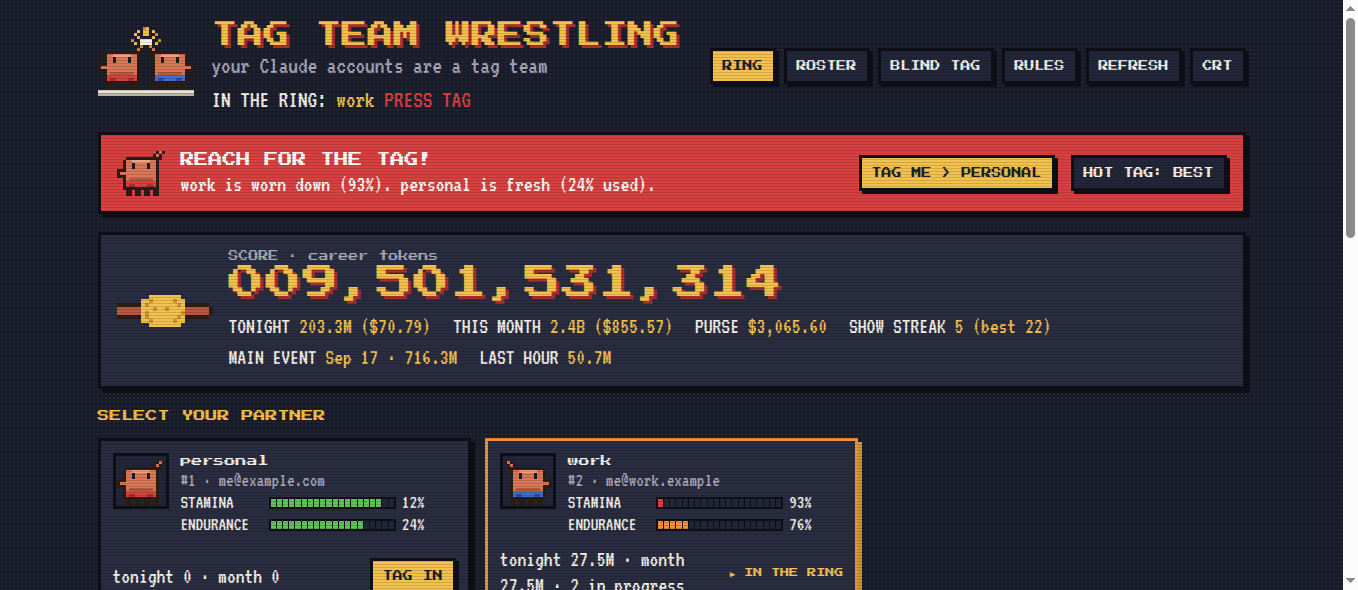
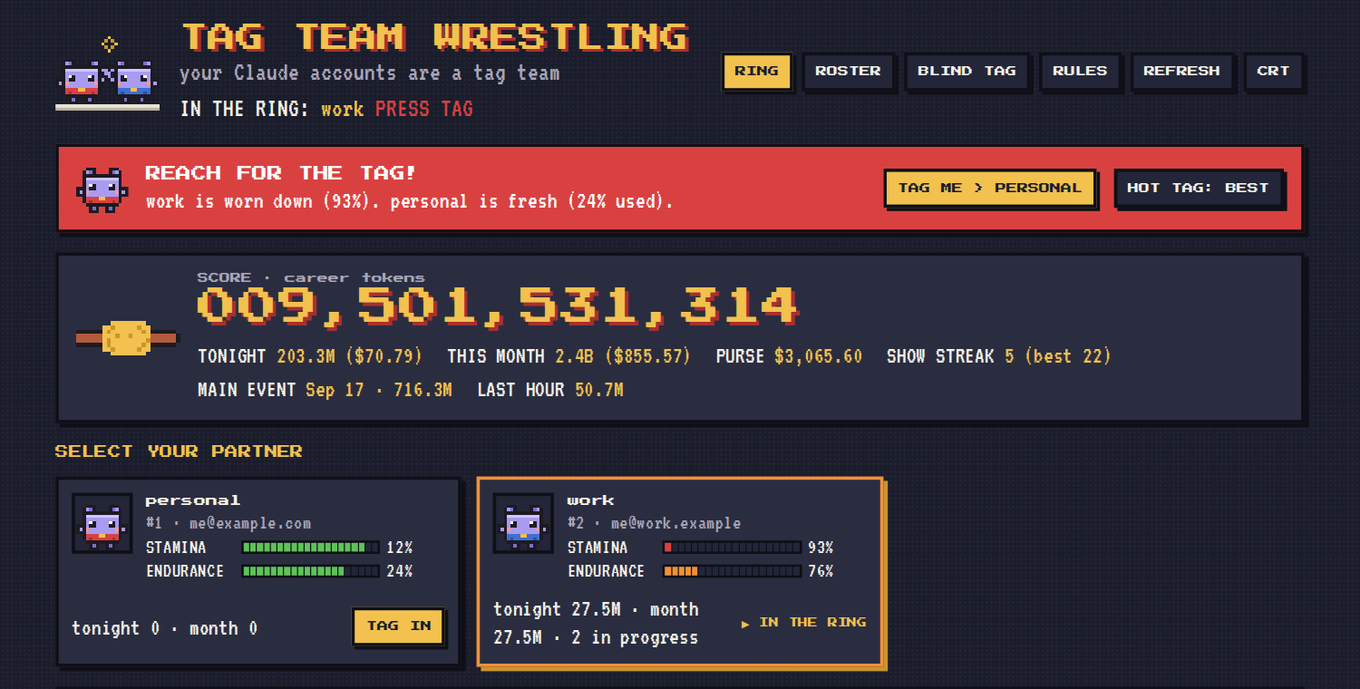
feat: original mascot, a lavender pixel critter tag team
Replaces the Claude-mascot fan art everywhere the mascot is drawn (ring
page, editor icon, terminal banner, plugin, download page): a lavender
body, round ears, round eyes, two legs and red / blue trunks. Adds
mascot/red and mascot/blue portrait frames so partner portraits no
longer slice the icon, and drops the fan-art notes.

Changed region(s): [[0.0309, 0.2136, 0.9588, 1.0], [0.0309, 0.0305, 0.9588, 0.1831], [0.9897, 0.0, 1.0, 1.0]]

diff --git a/docs/assets/mascot.js b/docs/assets/mascot.js
@@ -1,5 +1,5 @@
-// Mascot exported from Figma (R7exq8p1eMzkr0end2nxf1): one char per pixel, "." transparent; edit in Figma, not here.
-const MASCOT = {"palette":{"o":"#c9952e","c":"#f2c14e","h":"#f4f1e8","s":"#2b1d17","e":"#d97757","R":"#f0a07f","r":"#1b1d2b","b":"#b35a3d","B":"#d94141","w":"#3f6fd1","y":"#a82f2f","Y":"#2c4f9c","m":"#e8e3d3","M":"#b9b3a2","q":"#5a5f73"},"frames":{"mascot/icon":["................................","................................","................................","...............oc...............",".............c.cc.c.............","............c..cc..o............",".............c....c.............","...........o..hhhh..o...........","............c.hhhh.c............",".............sesses.............","............ses..ses............","...ssssssssssss..ssssssssssss...","..seeRRRRRRees....seeRRRRRRees..","..seereeeerees....seereeeerees..","..seereeeerees....seereeeerees..","ssseeeeeeeeees....seeeeeeeeeesss","seeeeeeeeeeees....seeeeeeeeeeees","ssseeeeeeeeees....seeeeeeeeeesss","..sebbbbbbbbes....sebbbbbbbbes..","..sBBBBBBBBBBs....swwwwwwwwwws..","..sByyBBBByyBs....swYYwwwwYYws..","..ssssssssssss....ssssssssssss..","...ss.ss.ss.ss....ss.ss.ss.ss...","...ss.ss.ss.ss....ss.ss.ss.ss...","mmmmmmmmmmmmmmmmmmmmmmmmmmmmmmmm","MMMMMMMMMMMMMMMMMMMMMMMMMMMMMMMM","................................","................................","................................","................................","................................","................................"],"mascot/slap-1":["................................","................................","................................","................................","................................","................................","................................","...........hh......hh...........","...........hh......hh...........","..........ses......ses..........",".........ses........ses.........","ssssssssssss........ssssssssssss","eeRRRRRRees..........seeRRRRRRee","eereeeerees..........seereeeeree","eereeeerees..........seereeeeree","eeeeeeeeees..........seeeeeeeeee","eeeeeeeeees..........seeeeeeeeee","eeeeeeeeees..........seeeeeeeeee","ebbbbbbbbes..........sebbbbbbbbe","BBBBBBBBBBs..........swwwwwwwwww","ByyBBBByyBs..........swYYwwwwYYw","sssssssssss..........sssssssssss","ss.ss.ss.ss..........ss.ss.ss.ss","ss.ss.ss.ss..........ss.ss.ss.ss","mmmmmmmmmmmmmmmmmmmmmmmmmmmmmmmm","MMMMMMMMMMMMMMMMMMMMMMMMMMMMMMMM","................................","................................","................................","................................","................................","................................"],"mascot/slap-2":["................................","................................","................................","................................","................................","................................","................................","............hh...hh.............","............hh...hh.............","...........ses...ses............","..........ses.....ses...........",".ssssssssssss.....ssssssssssss..","seeRRRRRRees.......seeRRRRRRees.","seereeeerees.......seereeeerees.","seereeeerees.......seereeeerees.","seeeeeeeeees.......seeeeeeeeeess","eeeeeeeeeees.......seeeeeeeeeeee","seeeeeeeeees.......seeeeeeeeeess","sebbbbbbbbes.......sebbbbbbbbes.","sBBBBBBBBBBs.......swwwwwwwwwws.","sByyBBBByyBs.......swYYwwwwYYws.","ssssssssssss.......ssssssssssss.",".ss.ss.ss.ss.......ss.ss.ss.ss..",".ss.ss.ss.ss.......ss.ss.ss.ss..","mmmmmmmmmmmmmmmmmmmmmmmmmmmmmmmm","MMMMMMMMMMMMMMMMMMMMMMMMMMMMMMMM","................................","................................","................................","................................","................................","................................"],"mascot/slap-3":["................................","................................","................................","................................","................................","...............cc...............",".............c....c.............","..............hhhh..............","............c.hhhh.c............",".............sesses.............","............ses..ses............","...ssssssssssss..ssssssssssss...","..seeRRRRRRees....seeRRRRRRees..","..seereeeerees....seereeeerees..","..seereeeerees....seereeeerees..","ssseeeeeeeeees....seeeeeeeeeesss","seeeeeeeeeeees....seeeeeeeeeeees","ssseeeeeeeeees....seeeeeeeeeesss","..sebbbbbbbbes....sebbbbbbbbes..","..sBBBBBBBBBBs....swwwwwwwwwws..","..sByyBBBByyBs....swYYwwwwYYws..","..ssssssssssss....ssssssssssss..","...ss.ss.ss.ss....ss.ss.ss.ss...","...ss.ss.ss.ss....ss.ss.ss.ss...","mmmmmmmmmmmmmmmmmmmmmmmmmmmmmmmm","MMMMMMMMMMMMMMMMMMMMMMMMMMMMMMMM","................................","................................","................................","................................","................................","................................"],"mascot/slap-4":["................................","................................","................................","...............oc...............",".............c.cc.c.............","............c..cc..o............",".............c....c.............","...........o..hhhh..o...........","............c.hhhh.c............",".............sesses.............","............ses..ses............","...ssssssssssss..ssssssssssss...","..seeRRRRRRees....seeRRRRRRees..","..seereeeerees....seereeeerees..","..seereeeerees....seereeeerees..","ssseeeeeeeeees....seeeeeeeeeesss","seeeeeeeeeeees....seeeeeeeeeeees","ssseeeeeeeeees....seeeeeeeeeesss","..sebbbbbbbbes....sebbbbbbbbes..","..sBBBBBBBBBBs....swwwwwwwwwws..","..sByyBBBByyBs....swYYwwwwYYws..","..ssssssssssss....ssssssssssss..","...ss.ss.ss.ss....ss.ss.ss.ss...","...ss.ss.ss.ss....ss.ss.ss.ss...","mmmmmmmmmmmmmmmmmmmmmmmmmmmmmmmm","MMMMMMMMMMMMMMMMMMMMMMMMMMMMMMMM","................................","................................","................................","................................","................................","................................"],"ring":["................................................................","................................................................",".qq..........................................................qq.",".qq..........................................................qq.",".qq..........................................................qq.",".qqBBBBBBBBBBBBBBBBBBBBBBBBBBBBBBBBBBBBBBBBBBBBBBBBBBBBBBBBBBqq.",".qq..........................................................qq.",".qq..........................................................qq.",".qq..........................................................qq.",".qq..........................................................qq.",".qqhhhhhhhhhhhhhhhhhhhhhhhhhhhhhhhhhhhhhhhhhhhhhhhhhhhhhhhhhhqq.",".qq..........................................................qq.",".qq..........................................................qq.",".qq..........................................................qq.",".qq..........................................................qq.",".qqwwwwwwwwwwwwwwwwwwwwwwwwwwwwwwwwwwwwwwwwwwwwwwwwwwwwwwwwwwqq.",".qq..........................................................qq.",".qq..........................................................qq.",".qq..........................................................qq.",".qq..........................................................qq.","mmmmmmmmmmmmmmmmmmmmmmmmmmmmmmmmmmmmmmmmmmmmmmmmmmmmmmmmmmmmmmmm","mmmmmmmmmmmmmmmmmmmmmmmmmmmmmmmmmmmmmmmmmmmmmmmmmmmmmmmmmmmmmmmm","MMMMMMMMMMMMMMMMMMMMMMMMMMMMMMMMMMMMMMMMMMMMMMMMMMMMMMMMMMMMMMMM","MMMMMMMMMMMMMMMMMMMMMMMMMMMMMMMMMMMMMMMMMMMMMMMMMMMMMMMMMMMMMMMM"],"belt":["........cccccccc........","......ccocccccocc.......","sssssscocccccccocssssss.","bbbbbbcccoccoccccbbbbbbs","bbbbbbcoccccccccobbbbbbs","sssssscocccccccocssssss.","......ccocccccocc.......","........cccccccc........"]}};
+// Mascot exported from Figma (R7exq8p1eMzkr0end2nxf1, page "Mascot v2"): one char per pixel, "." transparent; edit in Figma, not here.
+const MASCOT = {"palette":{"s":"#1e1a22","e":"#a99bf0","E":"#7d6fcf","R":"#cfc6ff","r":"#1e1a22","h":"#ffffff","p":"#f29a9a","B":"#d94141","y":"#a82f2f","w":"#3f6fd1","Y":"#2c4f9c","o":"#c9952e","c":"#f2c14e","m":"#e8e3d3","M":"#b9b3a2","q":"#5a5f73","b":"#b35a3d"},"frames":{"mascot/icon":["................................","................................","................................","................................","................................","................c...............","...............o.o..............","..............c...c.............","...............o.o..............","................c...............","................................","................................","...sss....sss......sss....sss...","..seEs....sEes....seEs....sEes..","..ssssssssssssssssssssssssssss..","..sRRRRRRRRRRseesesRRRRRRRRRRs..","..seeeeeeeeeesseesseeeeeeeeees..","..sehreeeehres.se.serheeeerhes..","ssserreeeerresesseserreeeerresss","sespeeeeeeeepss..sspeeeeeeeepses","ssseeeeeeeeees....seeeeeeeeeesss","..sBBBBccBBBBs....swwwwccwwwws..","..sByBBBBBByBs....swYwwwwwwYws..","...ssssssssss......ssssssssss...","....sEs..sEs........sEs..sEs....","....sss..sss........sss..sss....","mmmmmmmmmmmmmmmmmmmmmmmmmmmmmmmm","MMMMMMMMMMMMMMMMMMMMMMMMMMMMMMMM","................................","................................","................................","................................"],"mascot/slap-1":["................................","................................","................................","................................","................................","................................","................................","................................","................................","................................","................................","................................","..sss....sss........sss....sss..",".seEs....sEes......seEs....sEes.",".ssssssssssss......ssssssssssss.",".sRRRRRRRRRRs......sRRRRRRRRRRs.",".seeeeeeeeees......seeeeeeeeees.",".sehreeeehres......serheeeerhes.","sserreeeerresss..ssserreeeerress","espeeeeeeeepses..sespeeeeeeeepse","sseeeeeeeeeesss..ssseeeeeeeeeess",".sBBBBccBBBBs......swwwwccwwwws.",".sByBBBBBByBs......swYwwwwwwYws.","..ssssssssss........ssssssssss..","...sEs..sEs..........sEs..sEs...","...sss..sss..........sss..sss...","mmmmmmmmmmmmmmmmmmmmmmmmmmmmmmmm","MMMMMMMMMMMMMMMMMMMMMMMMMMMMMMMM","................................","................................","................................","................................"],"mascot/slap-2":["................................","................................","................................","................................","................................","................................","................................","................................","................................","................................","................................","................................","..sss....sss.......sss....sss...",".seEs....sEes.....seEs....sEes..",".ssssssssssss.sss.ssssssssssss..",".sRRRRRRRRRRsseesssRRRRRRRRRRs..",".seeeeeeeeees.ses.seeeeeeeeees..",".sehreeeehres.ese.serheeeerhes..","sserreeeerreses.seserreeeerresss","espeeeeeeeepss...sspeeeeeeeepses","sseeeeeeeeees.....seeeeeeeeeesss",".sBBBBccBBBBs.....swwwwccwwwws..",".sByBBBBBByBs.....swYwwwwwwYws..","..ssssssssss.......ssssssssss...","...sEs..sEs.........sEs..sEs....","...sss..sss.........sss..sss....","mmmmmmmmmmmmmmmmmmmmmmmmmmmmmmmm","MMMMMMMMMMMMMMMMMMMMMMMMMMMMMMMM","................................","................................","................................","................................"],"mascot/slap-3":["................................","................................","................................","................................","................................","................................","................................","................................","................................","................................","................................","................................","...sss....sss......sss....sss...","..seEs....sEes....seEs....sEes..","..ssssssssssssssssssssssssssss..","..sRRRRRRRRRRseesesRRRRRRRRRRs..","..seeeeeeeeeesseesseeeeeeeeees..","..sehreeeehres.se.serheeeerhes..","ssserreeeerresesseserreeeerresss","sespeeeeeeeepss..sspeeeeeeeepses","ssseeeeeeeeees....seeeeeeeeeesss","..sBBBBccBBBBs....swwwwccwwwws..","..sByBBBBBByBs....swYwwwwwwYws..","...ssssssssss......ssssssssss...","....sEs..sEs........sEs..sEs....","....sss..sss........sss..sss....","mmmmmmmmmmmmmmmmmmmmmmmmmmmmmmmm","MMMMMMMMMMMMMMMMMMMMMMMMMMMMMMMM","................................","................................","................................","................................"],"mascot/slap-4":["................................","................................","................................","................................","................................","................c...............","...............o.o..............","..............c...c.............","...............o.o..............","................c...............","................................","................................","...sss....sss......sss....sss...","..seEs....sEes....seEs....sEes..","..ssssssssssssssssssssssssssss..","..sRRRRRRRRRRseesesRRRRRRRRRRs..","..seeeeeeeeeesseesseeeeeeeeees..","..sehreeeehres.se.serheeeerhes..","ssserreeeerresesseserreeeerresss","sespeeeeeeeepss..sspeeeeeeeepses","ssseeeeeeeeees....seeeeeeeeeesss","..sBBBBccBBBBs....swwwwccwwwws..","..sByBBBBBByBs....swYwwwwwwYws..","...ssssssssss......ssssssssss...","....sEs..sEs........sEs..sEs....","....sss..sss........sss..sss....","mmmmmmmmmmmmmmmmmmmmmmmmmmmmmmmm","MMMMMMMMMMMMMMMMMMMMMMMMMMMMMMMM","................................","................................","................................","................................"],"mascot/red":["................","...sss....sss...","..seEs....sEes..","..ssssssssssss..","..sRRRRRRRRRRs..","..seeeeeeeeees..","..sehreeeehres..","ssserreeeerresss","sespeeeeeeeepses","ssseeeeeeeeeesss","..sBBBBccBBBBs..","..sByBBBBBByBs..","...ssssssssss...","....sEs..sEs....","....sss..sss...."],"mascot/blue":["................","...sss....sss...","..seEs....sEes..","..ssssssssssss..","..sRRRRRRRRRRs..","..seeeeeeeeees..","..sehreeeehres..","ssserreeeerresss","sespeeeeeeeepses","ssseeeeeeeeeesss","..swwwwccwwwws..","..swYwwwwwwYws..","...ssssssssss...","....sEs..sEs....","....sss..sss...."],"ring":["................................................................","................................................................",".qq..........................................................qq.",".qq..........................................................qq.",".qq..........................................................qq.",".qqBBBBBBBBBBBBBBBBBBBBBBBBBBBBBBBBBBBBBBBBBBBBBBBBBBBBBBBBBBqq.",".qq..........................................................qq.",".qq..........................................................qq.",".qq..........................................................qq.",".qq..........................................................qq.",".qqhhhhhhhhhhhhhhhhhhhhhhhhhhhhhhhhhhhhhhhhhhhhhhhhhhhhhhhhhhqq.",".qq..........................................................qq.",".qq..........................................................qq.",".qq..........................................................qq.",".qq..........................................................qq.",".qqwwwwwwwwwwwwwwwwwwwwwwwwwwwwwwwwwwwwwwwwwwwwwwwwwwwwwwwwwwqq.",".qq..........................................................qq.",".qq..........................................................qq.",".qq..........................................................qq.",".qq..........................................................qq.","mmmmmmmmmmmmmmmmmmmmmmmmmmmmmmmmmmmmmmmmmmmmmmmmmmmmmmmmmmmmmmmm","mmmmmmmmmmmmmmmmmmmmmmmmmmmmmmmmmmmmmmmmmmmmmmmmmmmmmmmmmmmmmmmm","MMMMMMMMMMMMMMMMMMMMMMMMMMMMMMMMMMMMMMMMMMMMMMMMMMMMMMMMMMMMMMMM","MMMMMMMMMMMMMMMMMMMMMMMMMMMMMMMMMMMMMMMMMMMMMMMMMMMMMMMMMMMMMMMM"],"belt":["........cccccccc........","......ccocccccocc.......","sssssscocccccccocssssss.","bbbbbbcccoccoccccbbbbbbs","bbbbbbcoccccccccobbbbbbs","sssssscocccccccocssssss.","......ccocccccocc.......","........cccccccc........"]}};
 
 /** An SVG of pixel rows ("." = transparent), `scale` screen pixels per art pixel; integer scaling stays crisp. */
 const svgText = s => String(s).replace(/[&<>"']/g, c => ({ "&": "&amp;", "<": "&lt;", ">": "&gt;", '"': "&quot;", "'": "&#39;" }[c]));
@@ -26,8 +26,7 @@ function mascotSVG(name, scale = 4, title = "") { return rowsSVG(MASCOT.frames[n
 
 /** One wrestler cut from the icon: "red" (left) or "blue" (right), for portraits. */
 function partnerSVG(side, scale = 3, title = "") {
-  const rows = MASCOT.frames["mascot/icon"].slice(9, 24).map(r => side === "red" ? r.slice(0, 16) : r.slice(16));
-  return rowsSVG(rows, scale, title);
+  return rowsSVG(MASCOT.frames[side === "red" ? "mascot/red" : "mascot/blue"], scale, title);
 }
 
 if (typeof module !== "undefined") module.exports = { MASCOT, mascotSVG, partnerSVG, rowsSVG };

diff --git a/tagteam/web/mascot.js b/tagteam/web/mascot.js
@@ -1,5 +1,5 @@
-// Mascot exported from Figma (R7exq8p1eMzkr0end2nxf1): one char per pixel, "." transparent; edit in Figma, not here.
-const MASCOT = {"palette":{"o":"#c9952e","c":"#f2c14e","h":"#f4f1e8","s":"#2b1d17","e":"#d97757","R":"#f0a07f","r":"#1b1d2b","b":"#b35a3d","B":"#d94141","w":"#3f6fd1","y":"#a82f2f","Y":"#2c4f9c","m":"#e8e3d3","M":"#b9b3a2","q":"#5a5f73"},"frames":{"mascot/icon":["................................","................................","................................","...............oc...............",".............c.cc.c.............","............c..cc..o............",".............c....c.............","...........o..hhhh..o...........","............c.hhhh.c............",".............sesses.............","............ses..ses............","...ssssssssssss..ssssssssssss...","..seeRRRRRRees....seeRRRRRRees..","..seereeeerees....seereeeerees..","..seereeeerees....seereeeerees..","ssseeeeeeeeees....seeeeeeeeeesss","seeeeeeeeeeees....seeeeeeeeeeees","ssseeeeeeeeees....seeeeeeeeeesss","..sebbbbbbbbes....sebbbbbbbbes..","..sBBBBBBBBBBs....swwwwwwwwwws..","..sByyBBBByyBs....swYYwwwwYYws..","..ssssssssssss....ssssssssssss..","...ss.ss.ss.ss....ss.ss.ss.ss...","...ss.ss.ss.ss....ss.ss.ss.ss...","mmmmmmmmmmmmmmmmmmmmmmmmmmmmmmmm","MMMMMMMMMMMMMMMMMMMMMMMMMMMMMMMM","................................","................................","................................","................................","................................","................................"],"mascot/slap-1":["................................","................................","................................","................................","................................","................................","................................","...........hh......hh...........","...........hh......hh...........","..........ses......ses..........",".........ses........ses.........","ssssssssssss........ssssssssssss","eeRRRRRRees..........seeRRRRRRee","eereeeerees..........seereeeeree","eereeeerees..........seereeeeree","eeeeeeeeees..........seeeeeeeeee","eeeeeeeeees..........seeeeeeeeee","eeeeeeeeees..........seeeeeeeeee","ebbbbbbbbes..........sebbbbbbbbe","BBBBBBBBBBs..........swwwwwwwwww","ByyBBBByyBs..........swYYwwwwYYw","sssssssssss..........sssssssssss","ss.ss.ss.ss..........ss.ss.ss.ss","ss.ss.ss.ss..........ss.ss.ss.ss","mmmmmmmmmmmmmmmmmmmmmmmmmmmmmmmm","MMMMMMMMMMMMMMMMMMMMMMMMMMMMMMMM","................................","................................","................................","................................","................................","................................"],"mascot/slap-2":["................................","................................","................................","................................","................................","................................","................................","............hh...hh.............","............hh...hh.............","...........ses...ses............","..........ses.....ses...........",".ssssssssssss.....ssssssssssss..","seeRRRRRRees.......seeRRRRRRees.","seereeeerees.......seereeeerees.","seereeeerees.......seereeeerees.","seeeeeeeeees.......seeeeeeeeeess","eeeeeeeeeees.......seeeeeeeeeeee","seeeeeeeeees.......seeeeeeeeeess","sebbbbbbbbes.......sebbbbbbbbes.","sBBBBBBBBBBs.......swwwwwwwwwws.","sByyBBBByyBs.......swYYwwwwYYws.","ssssssssssss.......ssssssssssss.",".ss.ss.ss.ss.......ss.ss.ss.ss..",".ss.ss.ss.ss.......ss.ss.ss.ss..","mmmmmmmmmmmmmmmmmmmmmmmmmmmmmmmm","MMMMMMMMMMMMMMMMMMMMMMMMMMMMMMMM","................................","................................","................................","................................","................................","................................"],"mascot/slap-3":["................................","................................","................................","................................","................................","...............cc...............",".............c....c.............","..............hhhh..............","............c.hhhh.c............",".............sesses.............","............ses..ses............","...ssssssssssss..ssssssssssss...","..seeRRRRRRees....seeRRRRRRees..","..seereeeerees....seereeeerees..","..seereeeerees....seereeeerees..","ssseeeeeeeeees....seeeeeeeeeesss","seeeeeeeeeeees....seeeeeeeeeeees","ssseeeeeeeeees....seeeeeeeeeesss","..sebbbbbbbbes....sebbbbbbbbes..","..sBBBBBBBBBBs....swwwwwwwwwws..","..sByyBBBByyBs....swYYwwwwYYws..","..ssssssssssss....ssssssssssss..","...ss.ss.ss.ss....ss.ss.ss.ss...","...ss.ss.ss.ss....ss.ss.ss.ss...","mmmmmmmmmmmmmmmmmmmmmmmmmmmmmmmm","MMMMMMMMMMMMMMMMMMMMMMMMMMMMMMMM","................................","................................","................................","................................","................................","................................"],"mascot/slap-4":["................................","................................","................................","...............oc...............",".............c.cc.c.............","............c..cc..o............",".............c....c.............","...........o..hhhh..o...........","............c.hhhh.c............",".............sesses.............","............ses..ses............","...ssssssssssss..ssssssssssss...","..seeRRRRRRees....seeRRRRRRees..","..seereeeerees....seereeeerees..","..seereeeerees....seereeeerees..","ssseeeeeeeeees....seeeeeeeeeesss","seeeeeeeeeeees....seeeeeeeeeeees","ssseeeeeeeeees....seeeeeeeeeesss","..sebbbbbbbbes....sebbbbbbbbes..","..sBBBBBBBBBBs....swwwwwwwwwws..","..sByyBBBByyBs....swYYwwwwYYws..","..ssssssssssss....ssssssssssss..","...ss.ss.ss.ss....ss.ss.ss.ss...","...ss.ss.ss.ss....ss.ss.ss.ss...","mmmmmmmmmmmmmmmmmmmmmmmmmmmmmmmm","MMMMMMMMMMMMMMMMMMMMMMMMMMMMMMMM","................................","................................","................................","................................","................................","................................"],"ring":["................................................................","................................................................",".qq..........................................................qq.",".qq..........................................................qq.",".qq..........................................................qq.",".qqBBBBBBBBBBBBBBBBBBBBBBBBBBBBBBBBBBBBBBBBBBBBBBBBBBBBBBBBBBqq.",".qq..........................................................qq.",".qq..........................................................qq.",".qq..........................................................qq.",".qq..........................................................qq.",".qqhhhhhhhhhhhhhhhhhhhhhhhhhhhhhhhhhhhhhhhhhhhhhhhhhhhhhhhhhhqq.",".qq..........................................................qq.",".qq..........................................................qq.",".qq..........................................................qq.",".qq..........................................................qq.",".qqwwwwwwwwwwwwwwwwwwwwwwwwwwwwwwwwwwwwwwwwwwwwwwwwwwwwwwwwwwqq.",".qq..........................................................qq.",".qq..........................................................qq.",".qq..........................................................qq.",".qq..........................................................qq.","mmmmmmmmmmmmmmmmmmmmmmmmmmmmmmmmmmmmmmmmmmmmmmmmmmmmmmmmmmmmmmmm","mmmmmmmmmmmmmmmmmmmmmmmmmmmmmmmmmmmmmmmmmmmmmmmmmmmmmmmmmmmmmmmm","MMMMMMMMMMMMMMMMMMMMMMMMMMMMMMMMMMMMMMMMMMMMMMMMMMMMMMMMMMMMMMMM","MMMMMMMMMMMMMMMMMMMMMMMMMMMMMMMMMMMMMMMMMMMMMMMMMMMMMMMMMMMMMMMM"],"belt":["........cccccccc........","......ccocccccocc.......","sssssscocccccccocssssss.","bbbbbbcccoccoccccbbbbbbs","bbbbbbcoccccccccobbbbbbs","sssssscocccccccocssssss.","......ccocccccocc.......","........cccccccc........"]}};
+// Mascot exported from Figma (R7exq8p1eMzkr0end2nxf1, page "Mascot v2"): one char per pixel, "." transparent; edit in Figma, not here.
+const MASCOT = {"palette":{"s":"#1e1a22","e":"#a99bf0","E":"#7d6fcf","R":"#cfc6ff","r":"#1e1a22","h":"#ffffff","p":"#f29a9a","B":"#d94141","y":"#a82f2f","w":"#3f6fd1","Y":"#2c4f9c","o":"#c9952e","c":"#f2c14e","m":"#e8e3d3","M":"#b9b3a2","q":"#5a5f73","b":"#b35a3d"},"frames":{"mascot/icon":["................................","................................","................................","................................","................................","................c...............","...............o.o..............","..............c...c.............","...............o.o..............","................c...............","................................","................................","...sss....sss......sss....sss...","..seEs....sEes....seEs....sEes..","..ssssssssssssssssssssssssssss..","..sRRRRRRRRRRseesesRRRRRRRRRRs..","..seeeeeeeeeesseesseeeeeeeeees..","..sehreeeehres.se.serheeeerhes..","ssserreeeerresesseserreeeerresss","sespeeeeeeeepss..sspeeeeeeeepses","ssseeeeeeeeees....seeeeeeeeeesss","..sBBBBccBBBBs....swwwwccwwwws..","..sByBBBBBByBs....swYwwwwwwYws..","...ssssssssss......ssssssssss...","....sEs..sEs........sEs..sEs....","....sss..sss........sss..sss....","mmmmmmmmmmmmmmmmmmmmmmmmmmmmmmmm","MMMMMMMMMMMMMMMMMMMMMMMMMMMMMMMM","................................","................................","................................","................................"],"mascot/slap-1":["................................","................................","................................","................................","................................","................................","................................","................................","................................","................................","................................","................................","..sss....sss........sss....sss..",".seEs....sEes......seEs....sEes.",".ssssssssssss......ssssssssssss.",".sRRRRRRRRRRs......sRRRRRRRRRRs.",".seeeeeeeeees......seeeeeeeeees.",".sehreeeehres......serheeeerhes.","sserreeeerresss..ssserreeeerress","espeeeeeeeepses..sespeeeeeeeepse","sseeeeeeeeeesss..ssseeeeeeeeeess",".sBBBBccBBBBs......swwwwccwwwws.",".sByBBBBBByBs......swYwwwwwwYws.","..ssssssssss........ssssssssss..","...sEs..sEs..........sEs..sEs...","...sss..sss..........sss..sss...","mmmmmmmmmmmmmmmmmmmmmmmmmmmmmmmm","MMMMMMMMMMMMMMMMMMMMMMMMMMMMMMMM","................................","................................","................................","................................"],"mascot/slap-2":["................................","................................","................................","................................","................................","................................","................................","................................","................................","................................","................................","................................","..sss....sss.......sss....sss...",".seEs....sEes.....seEs....sEes..",".ssssssssssss.sss.ssssssssssss..",".sRRRRRRRRRRsseesssRRRRRRRRRRs..",".seeeeeeeeees.ses.seeeeeeeeees..",".sehreeeehres.ese.serheeeerhes..","sserreeeerreses.seserreeeerresss","espeeeeeeeepss...sspeeeeeeeepses","sseeeeeeeeees.....seeeeeeeeeesss",".sBBBBccBBBBs.....swwwwccwwwws..",".sByBBBBBByBs.....swYwwwwwwYws..","..ssssssssss.......ssssssssss...","...sEs..sEs.........sEs..sEs....","...sss..sss.........sss..sss....","mmmmmmmmmmmmmmmmmmmmmmmmmmmmmmmm","MMMMMMMMMMMMMMMMMMMMMMMMMMMMMMMM","................................","................................","................................","................................"],"mascot/slap-3":["................................","................................","................................","................................","................................","................................","................................","................................","................................","................................","................................","................................","...sss....sss......sss....sss...","..seEs....sEes....seEs....sEes..","..ssssssssssssssssssssssssssss..","..sRRRRRRRRRRseesesRRRRRRRRRRs..","..seeeeeeeeeesseesseeeeeeeeees..","..sehreeeehres.se.serheeeerhes..","ssserreeeerresesseserreeeerresss","sespeeeeeeeepss..sspeeeeeeeepses","ssseeeeeeeeees....seeeeeeeeeesss","..sBBBBccBBBBs....swwwwccwwwws..","..sByBBBBBByBs....swYwwwwwwYws..","...ssssssssss......ssssssssss...","....sEs..sEs........sEs..sEs....","....sss..sss........sss..sss....","mmmmmmmmmmmmmmmmmmmmmmmmmmmmmmmm","MMMMMMMMMMMMMMMMMMMMMMMMMMMMMMMM","................................","................................","................................","................................"],"mascot/slap-4":["................................","................................","................................","................................","................................","................c...............","...............o.o..............","..............c...c.............","...............o.o..............","................c...............","................................","................................","...sss....sss......sss....sss...","..seEs....sEes....seEs....sEes..","..ssssssssssssssssssssssssssss..","..sRRRRRRRRRRseesesRRRRRRRRRRs..","..seeeeeeeeeesseesseeeeeeeeees..","..sehreeeehres.se.serheeeerhes..","ssserreeeerresesseserreeeerresss","sespeeeeeeeepss..sspeeeeeeeepses","ssseeeeeeeeees....seeeeeeeeeesss","..sBBBBccBBBBs....swwwwccwwwws..","..sByBBBBBByBs....swYwwwwwwYws..","...ssssssssss......ssssssssss...","....sEs..sEs........sEs..sEs....","....sss..sss........sss..sss....","mmmmmmmmmmmmmmmmmmmmmmmmmmmmmmmm","MMMMMMMMMMMMMMMMMMMMMMMMMMMMMMMM","................................","................................","................................","................................"],"mascot/red":["................","...sss....sss...","..seEs....sEes..","..ssssssssssss..","..sRRRRRRRRRRs..","..seeeeeeeeees..","..sehreeeehres..","ssserreeeerresss","sespeeeeeeeepses","ssseeeeeeeeeesss","..sBBBBccBBBBs..","..sByBBBBBByBs..","...ssssssssss...","....sEs..sEs....","....sss..sss...."],"mascot/blue":["................","...sss....sss...","..seEs....sEes..","..ssssssssssss..","..sRRRRRRRRRRs..","..seeeeeeeeees..","..sehreeeehres..","ssserreeeerresss","sespeeeeeeeepses","ssseeeeeeeeeesss","..swwwwccwwwws..","..swYwwwwwwYws..","...ssssssssss...","....sEs..sEs....","....sss..sss...."],"ring":["................................................................","................................................................",".qq..........................................................qq.",".qq..........................................................qq.",".qq..........................................................qq.",".qqBBBBBBBBBBBBBBBBBBBBBBBBBBBBBBBBBBBBBBBBBBBBBBBBBBBBBBBBBBqq.",".qq..........................................................qq.",".qq..........................................................qq.",".qq..........................................................qq.",".qq..........................................................qq.",".qqhhhhhhhhhhhhhhhhhhhhhhhhhhhhhhhhhhhhhhhhhhhhhhhhhhhhhhhhhhqq.",".qq..........................................................qq.",".qq..........................................................qq.",".qq..........................................................qq.",".qq..........................................................qq.",".qqwwwwwwwwwwwwwwwwwwwwwwwwwwwwwwwwwwwwwwwwwwwwwwwwwwwwwwwwwwqq.",".qq..........................................................qq.",".qq..........................................................qq.",".qq..........................................................qq.",".qq..........................................................qq.","mmmmmmmmmmmmmmmmmmmmmmmmmmmmmmmmmmmmmmmmmmmmmmmmmmmmmmmmmmmmmmmm","mmmmmmmmmmmmmmmmmmmmmmmmmmmmmmmmmmmmmmmmmmmmmmmmmmmmmmmmmmmmmmmm","MMMMMMMMMMMMMMMMMMMMMMMMMMMMMMMMMMMMMMMMMMMMMMMMMMMMMMMMMMMMMMMM","MMMMMMMMMMMMMMMMMMMMMMMMMMMMMMMMMMMMMMMMMMMMMMMMMMMMMMMMMMMMMMMM"],"belt":["........cccccccc........","......ccocccccocc.......","sssssscocccccccocssssss.","bbbbbbcccoccoccccbbbbbbs","bbbbbbcoccccccccobbbbbbs","sssssscocccccccocssssss.","......ccocccccocc.......","........cccccccc........"]}};
 
 /** An SVG of pixel rows ("." = transparent), `scale` screen pixels per art pixel; integer scaling stays crisp. */
 const svgText = s => String(s).replace(/[&<>"']/g, c => ({ "&": "&amp;", "<": "&lt;", ">": "&gt;", '"': "&quot;", "'": "&#39;" }[c]));
@@ -26,8 +26,7 @@ function mascotSVG(name, scale = 4, title = "") { return rowsSVG(MASCOT.frames[n
 
 /** One wrestler cut from the icon: "red" (left) or "blue" (right), for portraits. */
 function partnerSVG(side, scale = 3, title = "") {
-  const rows = MASCOT.frames["mascot/icon"].slice(9, 24).map(r => side === "red" ? r.slice(0, 16) : r.slice(16));
-  return rowsSVG(rows, scale, title);
+  return rowsSVG(MASCOT.frames[side === "red" ? "mascot/red" : "mascot/blue"], scale, title);
 }
 
 if (typeof module !== "undefined") module.exports = { MASCOT, mascotSVG, partnerSVG, rowsSVG };

diff --git a/tagteam/web/index.html b/tagteam/web/index.html
@@ -240,7 +240,7 @@ footer { margin-top: 26px; font-size: 19px; color: var(--muted); }
     <div class="box"><h2>HOW THE MATCH WORKS</h2><pre class="rules" id="rules"></pre></div>
   </section>
 
-  <footer>Tag Team Wrestling: your Claude accounts side by side; tag the right one in with one click. Built on claude-swap. Not affiliated with any wrestling company or with Anthropic; the mascot is fan art.</footer>
+  <footer>Tag Team Wrestling: your Claude accounts side by side; tag the right one in with one click. Built on claude-swap. Not affiliated with any wrestling company or with Anthropic.</footer>
 </main>
 <div id="pop" aria-hidden="true"><div class="burst"><div id="popArt"></div><div class="word">TAG!</div></div></div>
 <div id="toast" role="status" aria-live="polite"></div>

diff --git a/docs/index.html b/docs/index.html
@@ -107,7 +107,7 @@ footer { color: var(--muted); font-size: 20px; margin-top: 30px; }
     </ol>
   </section>
 
-  <footer>Built on <a href="https://github.com/realiti4/claude-swap">claude-swap</a>. Your match history never leaves your machine. Tag Team uses generic wrestling words and isn't affiliated with any wrestling company or with Anthropic; the mascot is fan art.</footer>
+  <footer>Built on <a href="https://github.com/realiti4/claude-swap">claude-swap</a>. Your match history never leaves your machine. Tag Team uses generic wrestling words and isn't affiliated with any wrestling company or with Anthropic.</footer>
 </main>
 <script src="assets/mascot.js"></script>
 <script>

diff --git a/tagteam/rules.py b/tagteam/rules.py
@@ -22,5 +22,5 @@ Tag Team does that for your Claude accounts:
   career            all-time totals     purse           estimated API price of those tokens
   before the bell   usage from before Tag Team started keeping score
 
-Tag Team uses generic wrestling words; it isn't connected to any wrestling company,
-and the mascot is fan art of Claude's mascot, not an Anthropic product."""
+Tag Team uses generic wrestling words; it isn't connected to any wrestling company
+or to Anthropic."""

diff --git a/README.md b/README.md
@@ -144,13 +144,13 @@ Don't sign up for extra accounts to get around usage limits. Anthropic's [Usage 
 
 ## Design
 
-The mascot (two Claude-style critters tag-teaming, one in red trunks, one in blue) was drawn in Figma: [Tag Team Wrestling: mascot](https://www.figma.com/design/R7exq8p1eMzkr0end2nxf1). Every pixel is a 1×1 rectangle on a 32×32 grid with palette color styles; the frames are `mascot/icon`, `mascot/slap-1..4` (the tag animation), `ring` and `belt`.
+The mascot (two lavender pixel critters tag-teaming, one in red trunks, one in blue) was drawn in Figma: [Tag Team Wrestling: mascot](https://www.figma.com/design/R7exq8p1eMzkr0end2nxf1), page *Mascot v2*. Every pixel is a 1×1 rectangle on a 32×32 grid; the frames are `mascot/icon`, `mascot/slap-1..4` (the tag animation), `mascot/red` and `mascot/blue` (portraits), `ring` and `belt`.
 
 `tagteam/web/mascot.js` is the export (one character per pixel) and the only copy the code uses: the ring page, the editor extension icon (`art.png`), the terminal banner (`art.banner`) and the plugin all read it. To change the art, edit it in Figma and re-run the export (a read-only `use_figma` script that walks each frame's rectangles and returns `{palette, frames}`), then paste the result into `mascot.js`.
 
 Fonts: [Press Start 2P](https://fonts.google.com/specimen/Press+Start+2P) and [VT323](https://fonts.google.com/specimen/VT323), both under the SIL Open Font License (`tagteam/web/fonts/OFL-*.txt`), bundled so the ring works offline.
 
-Tag Team uses generic wrestling words. It isn't affiliated with any wrestling company or with Anthropic, and the mascot is fan art of Claude's mascot.
+Tag Team uses generic wrestling words. It isn't affiliated with any wrestling company or with Anthropic.
 
 ## Project layout
 

diff --git a/vscode/README.md b/vscode/README.md
@@ -10,4 +10,4 @@ If you have more than one Claude account (say, work and personal), they're a tag
 
 Needs the `tagteam` command, which the Tag Team installer sets up: https://github.com/n1th1n-19/tag-team
 
-Tag Team uses generic wrestling words; it isn't affiliated with any wrestling company or with Anthropic. The mascot is fan art.
+Tag Team uses generic wrestling words; it isn't affiliated with any wrestling company or with Anthropic.
